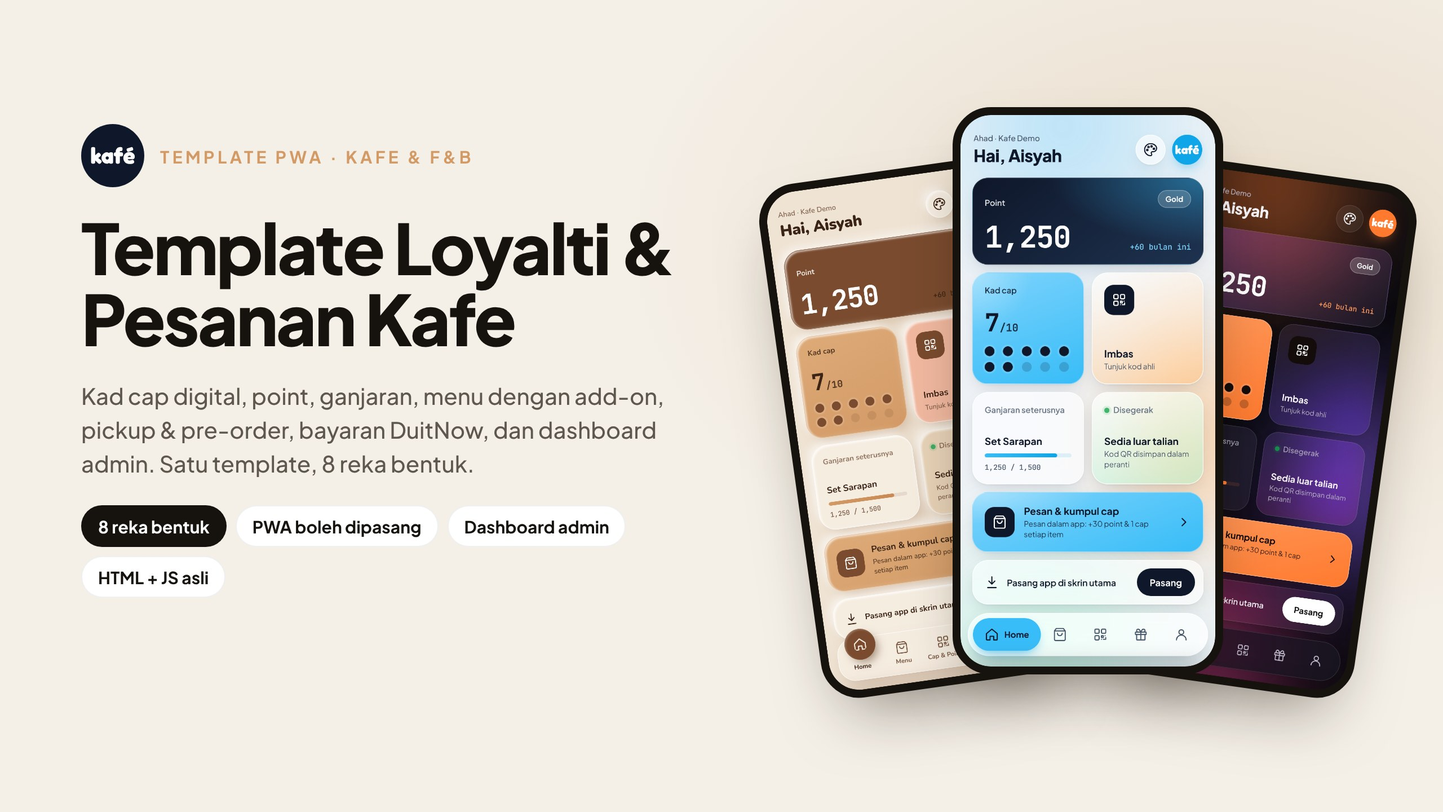
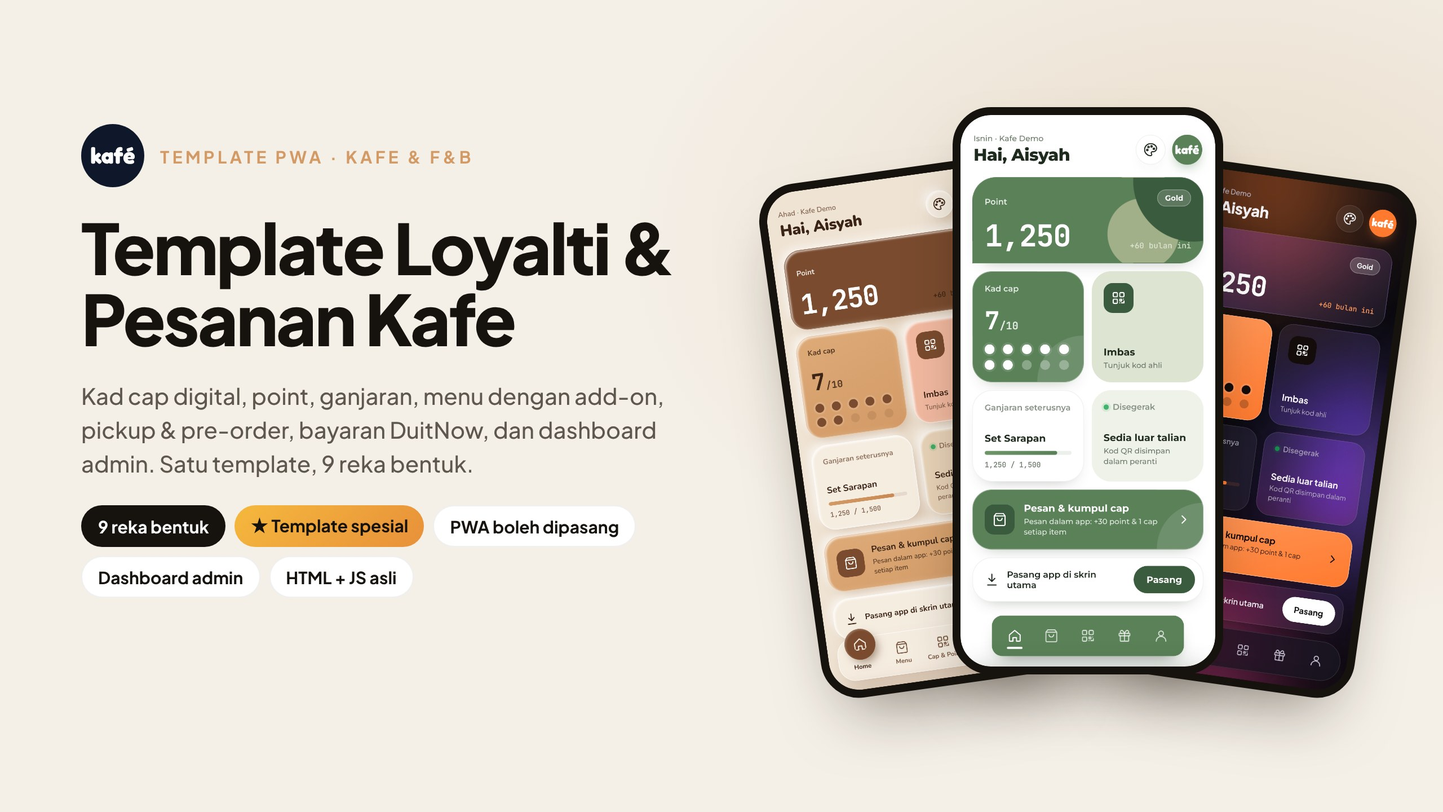
Add special template 'Sage Curve' (9th design)
- Curved sage hero with overlapping circles, vertical category rail on the
  Menu screen, product cards with SVG drink art popping out of a sage box,
  cup stamps and floating nav with underline indicator
- Optional per-product 'art' colours in menu.js; picker and admin show a
  SPESIAL badge; theme listed first
- Update docs, listing copy, cover/gallery images (9 designs + Sage gallery),
  concept poster; buyer ZIP now v1.1.0

Claude-Session: https://claude.ai/code/session_01C5wWw1jGXc8YxhPN5kL5xc

Changed region(s): [[0.6562, 0.125, 0.8438, 0.8438], [0.0625, 0.5625, 0.4375, 0.7188], [0.0625, 0.6875, 0.1562, 0.7188]]

diff --git a/index.html b/index.html
@@ -15,7 +15,7 @@
 <link rel="apple-touch-icon" href="icons/apple-touch-icon.png">
 <link rel="preconnect" href="https://fonts.googleapis.com">
 <link rel="preconnect" href="https://fonts.gstatic.com" crossorigin>
-<link href="https://fonts.googleapis.com/css2?family=Plus+Jakarta+Sans:wght@400;500;600;700;800&family=JetBrains+Mono:wght@500;700&family=Inter:wght@400;500;600;700;800&family=Nunito:wght@500;700;800;900&family=Marcellus&family=Zen+Maru+Gothic:wght@500;700&display=swap" rel="stylesheet">
+<link href="https://fonts.googleapis.com/css2?family=Plus+Jakarta+Sans:wght@400;500;600;700;800&family=JetBrains+Mono:wght@500;700&family=Inter:wght@400;500;600;700;800&family=Nunito:wght@500;700;800;900&family=Marcellus&family=Zen+Maru+Gothic:wght@500;700&family=Montserrat:wght@500;600;700;800&display=swap" rel="stylesheet">
 
 <style>
 /* =========================================================
@@ -216,6 +216,7 @@ svg.i{width:22px;height:22px;stroke:currentColor;fill:none;stroke-width:1.8;stro
 .switch.on{background:var(--brand)}
 .switch.on::after{transform:translateX(20px)}
 .tag-mono{font-family:var(--mono);font-size:11px;font-weight:700;color:var(--ink-2)}
+a.row{color:inherit;text-decoration:none}
 .demo-note{font-size:11px;color:var(--ink-3);text-align:center;margin:14px 0 0}
 
 /* ---------- Bottom nav ---------- */
@@ -546,6 +547,62 @@ svg.i{width:22px;height:22px;stroke:currentColor;fill:none;stroke-width:1.8;stro
 :root[data-theme="matcha"] .prod .row2{display:contents}
 :root[data-theme="matcha"] .prod .pr{grid-column:2;grid-row:3;align-self:start;margin-top:6px}
 :root[data-theme="matcha"] .prod .plus{grid-column:3;grid-row:1/4;border-radius:50%;width:34px;height:34px}
+/* ---- 9. ★ SPESIAL · Sage Curve: panel melengkung, tab menegak, kad minuman tersembul ---- */
+:root[data-theme="sage"]{
+  --brand:#5A8158; --brand-2:#6E9668; --brand-deep:#3B5B3E; --brand-rgb:90,129,88;
+  --ink:#1F2A1E; --ink-2:#6B7769; --ink-3:#A3AD9F; --bg:#FFFFFF; --shadow-rgb:40,60,38; --ink2-rgb:107,119,105;
+  --glass:#FFFFFF; --glass-line:rgba(59,91,62,.08); --blur:0px; --surface:#F4F7F0; --sheet:#FFFFFF; --radius:30px;
+  --shadow:0 12px 26px -18px rgba(40,60,38,.45);
+  --tile-dark:radial-gradient(circle at 96% 4%,#3B5B3E 0 92px,transparent 93px),radial-gradient(circle at 74% 66%,#A2B08A 0 54px,transparent 55px),radial-gradient(circle at 92% 30%,#5A8158 0 38px,transparent 39px),#5A8158;
+  --tile-accent:radial-gradient(circle at 100% 100%,rgba(255,255,255,.12) 0 70px,transparent 71px),#5A8158;
+  --tile-warm:#DDE5D2; --tile-rose:#EEF2E8;
+  --dot-on:#FFFFFF; --dot-off:rgba(255,255,255,.3);
+  --stamp-on:#FFFFFF; --stamp-ink:#5A8158; --stamp-off:rgba(255,255,255,.15); --stamp-line:transparent; --stamp-off-ink:rgba(255,255,255,.55); --stamp-radius:50%;
+  --nav-bg:#5A8158; --nav-active:transparent; --nav-active-ink:#FFFFFF; --cat-on:#5A8158;
+  --delta:#DDE5D2; --dark-bar:linear-gradient(90deg,#A2B08A,#FFFFFF); --soft-icon:#DDE5D2;
+  --font:"Montserrat",system-ui,sans-serif; --font-head:"Montserrat",system-ui,sans-serif; --head-w:800; --head-ls:-.02em;
+  --splash-bg:radial-gradient(circle at 88% 10%,#3B5B3E 0 26vmin,transparent 26.2vmin),radial-gradient(circle at 12% 92%,#A2B08A 0 22vmin,transparent 22.2vmin),#5A8158;
+}
+:root[data-theme="sage"] .sky{display:none}
+:root[data-theme="sage"] body{background:#FFFFFF}
+/* jubin point = panel hero melengkung */
+:root[data-theme="sage"] .tile.dark{border-radius:36px 36px 36px 0}
+:root[data-theme="sage"] .tile.dark:not(.span2){border-radius:30px 30px 30px 0;background:radial-gradient(circle at 100% 0%,#3B5B3E 0 46px,transparent 47px),radial-gradient(circle at 78% 18%,#A2B08A 0 18px,transparent 19px),#5A8158}
+:root[data-theme="sage"] .tile.red{border-radius:30px}
+:root[data-theme="sage"] .tile.warm,:root[data-theme="sage"] .tile.rose{border:0;box-shadow:none}
+:root[data-theme="sage"] .icon-sq{background:#3B5B3E}
+/* nav terapung dengan garis penanda */
+:root[data-theme="sage"] .nav{border-radius:16px;padding:6px 10px;gap:6px;border:0;box-shadow:0 14px 26px -14px rgba(40,60,38,.6)}
+:root[data-theme="sage"] .nav button{color:rgba(255,255,255,.72);padding:0 12px;box-shadow:none!important;position:relative}
+:root[data-theme="sage"] .nav button span{display:none}
+:root[data-theme="sage"] .nav button.active{color:#fff;padding:0 12px}
+:root[data-theme="sage"] .nav button.active::after{content:"";position:absolute;left:50%;bottom:5px;width:24px;height:3px;margin-left:-12px;border-radius:3px;background:#fff}
+/* Menu: tab kategori menegak di tepi kiri */
+:root[data-theme="sage"] #s-menu{padding-left:64px}
+:root[data-theme="sage"] #s-menu .head{margin-left:2px}
+:root[data-theme="sage"] .cats{position:absolute;left:0;top:118px;margin:0;padding:0;flex-direction:column;gap:0;overflow:visible;width:50px}
+:root[data-theme="sage"] .cat{width:50px;min-height:150px;padding:22px 0;border-radius:0 0 0 40px;border:0;background:#5A8158;color:rgba(255,255,255,.75);writing-mode:vertical-rl;transform:rotate(180deg);font-size:12.5px;position:relative;box-shadow:-4px 6px 14px -6px rgba(0,0,0,.3)}
+:root[data-theme="sage"] .cat+.cat{margin-top:-28px}
+:root[data-theme="sage"] .cat:nth-child(1){z-index:6}:root[data-theme="sage"] .cat:nth-child(2){z-index:5}:root[data-theme="sage"] .cat:nth-child(3){z-index:4}:root[data-theme="sage"] .cat:nth-child(4){z-index:3}:root[data-theme="sage"] .cat:nth-child(5){z-index:2}
+:root[data-theme="sage"] .cat.on{color:#fff}
+:root[data-theme="sage"] .cat.on::after{content:"";position:absolute;left:5px;top:50%;width:3px;height:30px;margin-top:-15px;border-radius:3px;background:#fff}
+/* kad produk: kotak sage + panel hijau + minuman tersembul */
+:root[data-theme="sage"] .prod-grid{grid-template-columns:1fr;gap:42px;padding-top:30px}
+:root[data-theme="sage"] .prod{display:grid;grid-template-columns:112px 1fr;grid-template-rows:auto auto 1fr;padding:0;min-height:140px;background:none;border:0;box-shadow:none;overflow:visible;color:#fff}
+:root[data-theme="sage"] .prod::before{content:"";position:absolute;left:98px;right:8px;top:16px;bottom:8px;background:#5A8158;border-radius:0 32px 32px 0;z-index:0}
+:root[data-theme="sage"] .prod .pic,:root[data-theme="sage"] .prod.alt .pic{grid-row:1/4;grid-column:1;position:relative;z-index:1;width:112px;height:140px;aspect-ratio:auto;margin:0;border-radius:28px;background:#A2B08A;overflow:visible;color:#fff}
+:root[data-theme="sage"] .prod .pic svg.art{position:absolute;left:12px;top:-38px;width:88px;height:163px;filter:drop-shadow(0 10px 10px rgba(0,0,0,.18))}
+:root[data-theme="sage"] .prod b{position:relative;z-index:1;grid-column:2;padding:28px 16px 0 22px;font-size:14px;font-weight:800}
+:root[data-theme="sage"] .prod .sub{position:relative;z-index:1;grid-column:2;padding:4px 16px 0 22px;color:rgba(255,255,255,.8);font-size:11px}
+:root[data-theme="sage"] .prod .row2{position:relative;z-index:1;grid-column:2;padding:8px 0 18px 22px;align-self:end}
+:root[data-theme="sage"] .prod .pr{color:#fff;font-size:14px}
+:root[data-theme="sage"] .prod .plus{position:absolute;right:0;bottom:-2px;width:44px;height:40px;border-radius:12px;background:#A2B08A;box-shadow:0 6px 12px -6px rgba(0,0,0,.3)}
+:root[data-theme="sage"] .prod .plus svg{stroke-width:3}
+/* halaman item */
+:root[data-theme="sage"] .ps-hero .pic{background:#5A8158;width:88px;height:96px;border-radius:24px;overflow:visible;position:relative}
+:root[data-theme="sage"] .ps-hero .pic svg.art{position:absolute;left:8px;top:-26px;width:72px;height:133px}
+:root[data-theme="sage"] .ps-hero{margin-top:22px}
+/* kartu pilihan tema: lencana spesial */
 /* ---- pembetulan kecil merentas tema ---- */
 :root[data-theme="grid"] .nav button.active{color:#111}
 :root[data-theme="indigo"] .nav button.active{color:#2B4A7E}
@@ -571,6 +628,9 @@ svg.i{width:22px;height:22px;stroke:currentColor;fill:none;stroke-width:1.8;stro
 .th-card .ok{position:absolute;right:8px;top:8px;width:22px;height:22px;border-radius:50%;background:var(--brand);color:#fff;display:none;place-items:center}
 .th-card.on .ok{display:grid}
 .th-card .ok svg{width:14px;height:14px}
+.th-card .sp{position:absolute;left:8px;top:8px;z-index:2;font-size:9.5px;font-weight:800;letter-spacing:.08em;padding:3px 8px;border-radius:99px;background:linear-gradient(135deg,#F5B83D,#E8903A);color:#3B2410;box-shadow:0 4px 10px -4px rgba(232,144,58,.8)}
+.th-card.special{grid-column:1/-1;display:grid;grid-template-columns:120px 1fr;gap:12px;align-items:center}
+.th-card.special .mock{margin:0;height:96px}
 
 /* =========================================================
    SPLASH — huruf pertama keluar, zoom, kemudian logo penuh
@@ -1192,6 +1252,26 @@ const saveCart = () => { try{ localStorage.setItem(SHARED.cart, JSON.stringify(c
 const activeMenu = () => CONFIG.menu.filter(p=>p.active!==false);
 const actOpts = g => (g.options||[]).filter(o=>o.active!==false);
 
+/* Lukisan minuman (SVG) untuk tema yang ada art:"drink", cth. Sage Curve */
+let artN=0;
+const ART_DEFAULT=[["#E6BE8A","#5C3B22","#8A5428"],["#F4B7C3","#B83A52","#C8364E"],["#BFD39B","#5E7F3E","#4E6B33"],["#D6C2E8","#7C5AA6","#6B4A93"]];
+function drinkArt(c){
+  const [top,bot,drz]=c, id="ar"+(artN++);
+  return `<svg class="art" viewBox="0 0 92 170" aria-hidden="true"><defs><linearGradient id="${id}" x1="0" y1="0" x2="0" y2="1"><stop offset="0" stop-color="${top}"/><stop offset=".55" stop-color="${top}"/><stop offset="1" stop-color="${bot}"/></linearGradient><clipPath id="${id}c"><path d="M10 62h72l-8 100a6 6 0 0 1-6 6H24a6 6 0 0 1-6-6z"/></clipPath></defs>
+  <rect x="44" y="0" width="5" height="40" rx="2" fill="#3B5B3E" transform="rotate(8 46 20)"/>
+  <path d="M10 62h72l-8 100a6 6 0 0 1-6 6H24a6 6 0 0 1-6-6z" fill="url(#${id})"/>
+  <g clip-path="url(#${id}c)" opacity=".35"><path d="M8 95c18 8 30-8 46 2s24-4 32 0" stroke="${drz}" stroke-width="7" fill="none"/><path d="M8 130c16 6 30-6 44 2s24-2 34 0" stroke="${drz}" stroke-width="6" fill="none"/></g>
+  <rect x="6" y="56" width="80" height="9" rx="4" fill="rgba(255,255,255,.9)"/>
+  <path d="M12 58c0-14 10-22 18-24 2-10 12-15 18-15s16 5 18 15c8 2 18 10 18 24z" fill="#FFF8EF"/>
+  <path d="M20 46c8 4 14-4 22 0s14-4 22 0 10-2 14 2" stroke="${drz}" stroke-width="3.2" fill="none" stroke-linecap="round"/>
+  <path d="M28 34c6 3 10-3 16 0s10-3 16 0" stroke="${drz}" stroke-width="3" fill="none" stroke-linecap="round"/>
+  <circle cx="46" cy="112" r="16" fill="#3B5B3E"/><text x="46" y="118" text-anchor="middle" font-family="Fredoka,Plus Jakarta Sans,sans-serif" font-weight="700" font-size="17" fill="#fff">${esc((CONFIG.brand||"K")[0].toLowerCase())}</text></svg>`;
+}
+function picHTML(p,i=0){
+  const isDrink = p.art || (p.cat||"")==="Minuman";
+  if(THEME.art==="drink" && isDrink) return drinkArt(Array.isArray(p.art)?p.art:ART_DEFAULT[i%ART_DEFAULT.length]);
+  return icon(p.icon||"cup");
+}
 function renderMenu(){
   const items=activeMenu(), cats=["Semua",...new Set(items.map(p=>p.cat||"Lain-lain"))];
   if(!cats.includes(menuCat)) menuCat="Semua";
@@ -1199,7 +1279,7 @@ function renderMenu(){
   const list=items.filter(p=>menuCat==="Semua"||(p.cat||"Lain-lain")===menuCat);
   $("#m-grid").innerHTML=list.map((p,i)=>`
     <button class="tile prod ${p.cat==="Snek"?"alt":""}" data-prod="${p.id}">
-      <div class="pic">${icon(p.icon||"cup")}</div>
+      <div class="pic">${picHTML(p,i)}</div>
       <b>${esc(p.name)}</b><span class="sub">${esc(p.desc||"")}</span>
       <div class="row2"><span class="pr">${rm2(p.price)}</span><span class="plus">${icon("plus")}</span></div>
     </button>`).join("") || `<div class="tile span2 empty">Tiada item dalam kategori ini</div>`;
@@ -1238,7 +1318,7 @@ function renderProduct(){
   const total=pickPrice(p), addon=total-p.price;
   box.innerHTML=`
     ${sheetTop(p.name)}
-    <div class="ps-hero"><div class="pic">${icon(p.icon||"cup")}</div><div><h2>${esc(p.name)}</h2><p>${esc(p.desc||"")}</p><div class="mono" style="font-weight:700;margin-top:4px">${rm2(p.price)}</div></div></div>
+    <div class="ps-hero"><div class="pic">${picHTML(p)}</div><div><h2>${esc(p.name)}</h2><p>${esc(p.desc||"")}</p><div class="mono" style="font-weight:700;margin-top:4px">${rm2(p.price)}</div></div></div>
     ${groups}
     <div class="ps-foot">
       <div class="bd"><span>Harga item <b>${rm2(p.price)}</b></span><span>Add-on <b>${addon>0?"+"+rm2(addon):"RM 0.00"}</b></span></div>
@@ -1490,10 +1570,10 @@ function openThemes(){
     <h2>Pilih reka bentuk</h2>
     <p>Tekan untuk cuba. Pilihan ini hanya untuk peranti ini, dan admin boleh tetapkan reka bentuk rasmi kedai di Tetapan.</p>
     <div class="th-grid">${THEMES.map(t=>`
-      <button class="th-card ${t.id===cur?"on":""}" data-theme-pick="${t.id}">
-        <span class="ok">${icon("check")}</span>
+      <button class="th-card ${t.id===cur?"on":""} ${t.special?"special":""}" data-theme-pick="${t.id}">
+        <span class="ok">${icon("check")}</span>${t.special?'<span class="sp">★ SPESIAL</span>':""}
         <div class="mock" style="background:${t.sw[0]}"><i style="background:${t.sw[1]}"></i><i style="background:${t.sw[2]}"></i><i style="background:${t.sw[3]};box-shadow:inset 0 0 0 1px rgba(0,0,0,.06)"></i></div>
-        <b>${esc(t.name)}</b><span>${esc(t.desc)}</span>
+        <div><b>${esc(t.name)}</b><span>${esc(t.desc)}${t.special?" · template spesial":""}</span></div>
       </button>`).join("")}</div>
     <button class="btn ghost block" data-action="themeReset">Guna reka bentuk kedai (${esc((THEMES.find(t=>t.id===(SHOP.theme||"frost"))||THEMES[0]).name)})</button>`);
 }

diff --git a/menu.js b/menu.js
@@ -8,23 +8,24 @@
      type:"multi"  → pilih banyak dengan kuantiti.
                      Setiap pilihan ada `max` = had kuantiti untuk SATU item.
                      Kumpulan ada `max` = had jumlah semua pilihan (0 = tiada had).
+   art:[atas, bawah, hiasan] (pilihan) = warna lukisan minuman untuk tema "Sage Curve".
      Nak lebih dari had? Pelanggan tambah item yang sama ke troli sekali lagi.
    ========================================================= */
 window.SHOP_MENU = [
-  { id:"sig", name:"Kopi Signature", desc:"Kopi susu gula hangus, krim lembut", price:9.90, cat:"Minuman", icon:"cup", active:true, groups:[
+  { id:"sig", name:"Kopi Signature", desc:"Kopi susu gula hangus, krim lembut", price:9.90, cat:"Minuman", icon:"cup", art:["#E6BE8A","#5C3B22","#8A5428"], active:true, groups:[
     { id:"size", name:"Saiz", type:"single", required:true, options:[{id:"r",name:"Regular",price:0,active:true},{id:"l",name:"Large",price:2,active:true}] },
     { id:"ice",  name:"Ais",  type:"single", required:true, options:[{id:"n",name:"Ais normal",price:0,active:true},{id:"k",name:"Kurang ais",price:0,active:true},{id:"t",name:"Tiada ais",price:0,active:true}] },
     { id:"top",  name:"Topping", type:"multi", max:3, options:[{id:"boba",name:"Boba",price:1.5,max:2,active:true},{id:"cheese",name:"Cheese foam",price:2,max:1,active:true},{id:"jelly",name:"Jelly kelapa",price:1,max:2,active:true}] },
   ]},
-  { id:"latte", name:"Latte Ais", desc:"Espresso dengan susu segar", price:8.90, cat:"Minuman", icon:"cup", active:true, groups:[
+  { id:"latte", name:"Latte Ais", desc:"Espresso dengan susu segar", price:8.90, cat:"Minuman", icon:"cup", art:["#EBD3B4","#A8754A","#7A4B2E"], active:true, groups:[
     { id:"size", name:"Saiz", type:"single", required:true, options:[{id:"r",name:"Regular",price:0,active:true},{id:"l",name:"Large",price:2,active:true}] },
     { id:"sugar",name:"Gula", type:"single", required:true, options:[{id:"n",name:"Gula normal",price:0,active:true},{id:"k",name:"Kurang manis",price:0,active:true},{id:"t",name:"Tanpa gula",price:0,active:true}] },
     { id:"xtra", name:"Tambahan", type:"multi", max:0, options:[{id:"shot",name:"Extra shot",price:2,max:2,active:true},{id:"van",name:"Sirap vanila",price:1,max:1,active:true},{id:"oat",name:"Tukar susu oat",price:2.5,max:1,active:true}] },
   ]},
-  { id:"teh", name:"Teh Tarik Ais", desc:"Teh tarik pekat, buih tebal", price:5.50, cat:"Minuman", icon:"cup", active:true, groups:[
+  { id:"teh", name:"Teh Tarik Ais", desc:"Teh tarik pekat, buih tebal", price:5.50, cat:"Minuman", icon:"cup", art:["#E2B987","#9A5B2A","#7A4220"], active:true, groups:[
     { id:"sugar",name:"Gula", type:"single", required:true, options:[{id:"n",name:"Gula normal",price:0,active:true},{id:"k",name:"Kurang manis",price:0,active:true}] },
   ]},
-  { id:"matcha", name:"Matcha Latte", desc:"Matcha Uji dengan susu segar", price:10.90, cat:"Minuman", icon:"leaf", active:true, groups:[
+  { id:"matcha", name:"Matcha Latte", desc:"Matcha Uji dengan susu segar", price:10.90, cat:"Minuman", icon:"leaf", art:["#BFD39B","#5E7F3E","#4E6B33"], active:true, groups:[
     { id:"size", name:"Saiz", type:"single", required:true, options:[{id:"r",name:"Regular",price:0,active:true},{id:"l",name:"Large",price:2,active:true}] },
     { id:"top",  name:"Topping", type:"multi", max:2, options:[{id:"boba",name:"Boba",price:1.5,max:2,active:true},{id:"cream",name:"Krim putar",price:1.5,max:1,active:true}] },
   ]},
@@ -67,6 +68,7 @@ window.SHOP_SETTINGS = {
    CSS setiap tema ada dalam index.html: :root[data-theme="..."]
    ========================================================= */
 window.SHOP_THEMES = [
+  { id:"sage",   name:"Sage Curve",        desc:"Panel melengkung · hijau sage",   sw:["#FFFFFF","#5A8158","#3B5B3E","#A2B08A"], meta:"#FFFFFF", stamp:"cup", art:"drink", special:true },
   { id:"frost",  name:"Bento Glass Frost", desc:"Kaca cerah · biru langit",        sw:["#EEF2F6","#0F172A","#38BDF8","#FDBA74"], meta:"#EEF2F6", stamp:"check" },
   { id:"grid",   name:"Bento Grid",        desc:"Kelabu hangat · hitam · oren",    sw:["#F1F1EE","#111111","#FF6A1A","#FFFFFF"], meta:"#F1F1EE", stamp:"check" },
   { id:"noir",   name:"Bento Glass Noir",  desc:"Kaca gelap · oren · ungu",        sw:["#0B0B10","#FF7A2F","#8B5CF6","#EC4899"], meta:"#0B0B10", stamp:"check" },

diff --git a/admin.html b/admin.html
@@ -328,6 +328,7 @@ svg.i{width:20px;height:20px;stroke:currentColor;fill:none;stroke-width:1.8;stro
 .th-card span{font-size:11px;color:var(--ink-2)}
 .th-card .ok{position:absolute;right:8px;top:8px;width:22px;height:22px;border-radius:50%;background:var(--brand);color:#fff;display:none;place-items:center}
 .th-card.on .ok{display:grid}
+.th-card .sp{position:absolute;left:8px;top:8px;z-index:2;font-size:9.5px;font-weight:800;letter-spacing:.08em;padding:3px 8px;border-radius:99px;background:linear-gradient(135deg,#F5B83D,#E8903A);color:#3B2410}
 
 /* ---------- Responsif ---------- */
 @media (max-width:1100px){ .g4{grid-template-columns:repeat(2,1fr)} }
@@ -1097,7 +1098,7 @@ const THEMES = window.SHOP_THEMES || [];
 function renderThemeGrid(){
   const cur=SETDRAFT.theme||"frost";
   $("#thGrid").innerHTML=THEMES.map(t=>`<button type="button" class="th-card ${t.id===cur?"on":""}" data-th="${t.id}">
-    <span class="ok">${icon("check","width:14px;height:14px")}</span>
+    <span class="ok">${icon("check","width:14px;height:14px")}</span>${t.special?'<span class="sp">★ SPESIAL</span>':""}
     <div class="mock" style="background:${t.sw[0]}"><i style="background:${t.sw[1]}"></i><i style="background:${t.sw[2]}"></i><i style="background:${t.sw[3]};box-shadow:inset 0 0 0 1px rgba(0,0,0,.06)"></i></div>
     <b>${esc(t.name)}</b><span>${esc(t.desc)}</span></button>`).join("");
   $("#thLink").textContent=`index.html?tema=${cur}`;
@@ -1105,7 +1106,7 @@ function renderThemeGrid(){
 document.addEventListener("click",e=>{ const b=e.target.closest("[data-th]"); if(!b||!SETDRAFT) return; SETDRAFT.theme=b.dataset.th; renderThemeGrid(); applyAdminTheme(SETDRAFT.theme); });
 /* Warna aksen admin ikut tema app (latar admin kekal cerah supaya mudah dibaca) */
 const ADMIN_ACCENT={frost:["#0EA5E9","#38BDF8","#0F172A"],grid:["#FF6A1A","#FF8A3D","#111111"],noir:["#FF7A2F","#FF9A5C","#1B1924"],aurora:["#6D5BFF","#22D3EE","#0E1226"],
-  clay:["#C98A55","#D39A66","#7A4B2E"],indigo:["#2B4A7E","#3D63A3","#1E355E"],matcha:["#4B5A3A","#6B7B57","#343F28"],ruby:["#BF0311","#E3192B","#5A0710"]};
+  clay:["#C98A55","#D39A66","#7A4B2E"],sage:["#5A8158","#A2B08A","#3B5B3E"],indigo:["#2B4A7E","#3D63A3","#1E355E"],matcha:["#4B5A3A","#6B7B57","#343F28"],ruby:["#BF0311","#E3192B","#5A0710"]};
 function applyAdminTheme(id){
   const c=ADMIN_ACCENT[id]||ADMIN_ACCENT.ruby, r=document.documentElement.style;
   const rgb=h=>[1,3,5].map(i=>parseInt(h.slice(i,i+2),16)).join(",");

diff --git a/sw.js b/sw.js
@@ -1,6 +1,6 @@
 /* Service worker — cache app shell supaya boleh dibuka luar talian.
    Naikkan VERSION setiap kali anda kemas kini index.html. */
-const VERSION = "kafe-v1.4.1";
+const VERSION = "kafe-v1.5.0";
 const SHELL = ["./", "./index.html", "./admin.html", "./menu.js", "./manifest.webmanifest",
   "./icons/icon-192.png", "./icons/icon-512.png", "./icons/apple-touch-icon.png"];
 

diff --git a/jualan/gumroad-listing.md b/jualan/gumroad-listing.md
@@ -5,10 +5,10 @@
 ---
 
 ## Nama produk
-**Template Loyalti & Pesanan Kafe — PWA, 8 Reka Bentuk (Demo, Lesen 1 Kedai)**
+**Template Loyalti & Pesanan Kafe — PWA, 9 Reka Bentuk termasuk Template Spesial (Demo, Lesen 1 Kedai)**
 
 ## Ringkasan (Summary)
-Template app kad loyalti dan pesanan untuk kafe & F&B. Ada kad cap digital, point, ganjaran, menu dengan add-on, pickup & pre-order, bayaran DuitNow dan dashboard admin. Satu template dengan 8 reka bentuk yang boleh ditukar dengan satu tekan.
+Template app kad loyalti dan pesanan untuk kafe & F&B. Ada kad cap digital, point, ganjaran, menu dengan add-on, pickup & pre-order, bayaran DuitNow dan dashboard admin. Satu template dengan 9 reka bentuk, termasuk template spesial Sage Curve, yang boleh ditukar dengan satu tekan.
 
 ## Penerangan
 
@@ -39,7 +39,9 @@ Nak tunjuk kepada client kafe macam mana rupa app loyalti mereka sendiri, tanpa 
   - pre-order
   - QR DuitNow
 
-### ✦ 8 reka bentuk dalam satu template
+### ✦ 9 reka bentuk dalam satu template
+**★ Sage Curve (template spesial)**: panel hijau melengkung, tab kategori menegak, dan lukisan minuman pada kad menu.
+
 Bento Glass Frost · Bento Grid · Bento Glass Noir · Aurora Night · Caramel Latte · Indigo Ramen · Matcha Zen · Ruby Glass
 
 Setiap reka bentuk ada warna, fon, gaya cap, gaya kad menu dan navigasi sendiri. Client boleh cuba semua reka bentuk terus dalam app, atau anda hantar pautan pratonton.
@@ -102,12 +104,13 @@ Dalam versi demo, dalam pelayar peranti. Tiada data dihantar ke mana-mana pelaya
 | `03-galeri-reka-bentuk.jpg` | Gambar galeri / cover tambahan |
 | `04-galeri-pesanan.jpg` | Gambar galeri / cover tambahan |
 | `05-galeri-admin.jpg` | Gambar galeri / cover tambahan |
+| `06-galeri-sage-curve.jpg` | Gambar galeri: template spesial |
 
 ## Langkah di Gumroad
 1. Gumroad → **Products → New product** → pilih **Digital product**. Masukkan nama dan harga.
-2. **Cover**: muat naik `01-cover.jpg`, kemudian tambah 03–05 sebagai gambar tambahan. **Thumbnail**: `02-thumbnail.jpg`.
+2. **Cover**: muat naik `01-cover.jpg`, kemudian tambah 03–06 sebagai gambar tambahan. **Thumbnail**: `02-thumbnail.jpg`.
 3. **Description**: tampal bahagian *Penerangan* dan *FAQ* di atas.
-4. **Content**: muat naik fail `template-loyalti-kafe-v1.0.0.zip`.
+4. **Content**: muat naik fail `template-loyalti-kafe-v1.1.0.zip`.
 5. Isi bahagian *Summary* dan tag, kemudian **Publish**.
 
 ## Nota tentang demo langsung

diff --git a/README.md b/README.md
@@ -1,11 +1,11 @@
 # Kafe Demo — Template Loyalty PWA
 
-Template kad loyalti digital + pesanan (cap, point, menu, pickup, ganjaran) untuk kafe. Logo contoh **"kafé"** (Kafe Demo) dan **8 reka bentuk** yang boleh ditukar.
+Template kad loyalti digital + pesanan (cap, point, menu, pickup, ganjaran) untuk kafe. Logo contoh **"kafé"** (Kafe Demo) dan **9 reka bentuk** yang boleh ditukar.
 Ditulis sepenuhnya dalam **HTML, CSS dan JavaScript vanilla**, dalam satu fail `index.html`. Tiada framework dan tiada langkah build.
 
 ## Ciri-ciri
 - **Splash screen beranimasi**: huruf pertama logo muncul, zoom, kemudian logo penuh terbuka.
-- **8 reka bentuk (tema)**: Bento Glass Frost, Bento Grid, Bento Glass Noir, Aurora Night, Caramel Latte (clay), Indigo Ramen, Matcha Zen dan Ruby Glass. Setiap tema ada warna, fon, gaya cap, gaya kad menu dan navigasi sendiri.
+- **9 reka bentuk (tema)**: ★ **Sage Curve (template spesial)**, Bento Glass Frost, Bento Grid, Bento Glass Noir, Aurora Night, Caramel Latte (clay), Indigo Ramen, Matcha Zen dan Ruby Glass. Setiap tema ada warna, fon, gaya cap, gaya kad menu dan navigasi sendiri.
 - **4 skrin**: Home · Cap & Point · Ganjaran · Profil, dengan bottom nav berbentuk pil.
 - **Kod QR ahli yang boleh diimbas betul-betul**, dijana dalam JS tanpa library (format: `<NAMA KEDAI>:<memberId>`).
 - **Kad cap 10 petak**: bila penuh, petak hadiah boleh ditekan untuk tebus minuman percuma.
@@ -17,7 +17,7 @@ Ditulis sepenuhnya dalam **HTML, CSS dan JavaScript vanilla**, dalam satu fail `
 ## Reka bentuk (tema)
 - Pelanggan/client boleh cuba semua reka bentuk melalui butang **palet** di Home, atau **Profil → Reka bentuk app**. Pilihan itu disimpan dalam peranti sahaja.
 - Admin pilih reka bentuk rasmi kedai di **Tetapan → Reka bentuk app pelanggan**, dan boleh matikan butang palet bila app sudah dilancarkan.
-- Pautan pratonton terus: `index.html?tema=aurora` (frost, grid, noir, aurora, clay, indigo, matcha, ruby). Sesuai untuk hantar kepada client.
+- Pautan pratonton terus: `index.html?tema=aurora` (sage, frost, grid, noir, aurora, clay, indigo, matcha, ruby). Sesuai untuk hantar kepada client.
 - Senarai tema ada dalam `menu.js` (`SHOP_THEMES`). CSS setiap tema ada dalam `index.html` di bahagian **TEMA** (`:root[data-theme="..."]`).
 
 ## Menu, add-on & troli

diff --git a/PANDUAN.md b/PANDUAN.md
@@ -70,9 +70,9 @@ Buka `http://localhost:8080` (app pelanggan) dan `http://localhost:8080/admin.ht
 
 ## 5. Pilih reka bentuk
 
-Template ada **8 reka bentuk**: Bento Glass Frost, Bento Grid, Bento Glass Noir, Aurora Night, Caramel Latte, Indigo Ramen, Matcha Zen dan Ruby Glass.
+Template ada **9 reka bentuk**: ★ **Sage Curve** (template spesial, dengan tab kategori menegak dan lukisan minuman), Bento Glass Frost, Bento Grid, Bento Glass Noir, Aurora Night, Caramel Latte, Indigo Ramen, Matcha Zen dan Ruby Glass.
 
-- **Untuk demo kepada client:** buka app dan tekan butang **palet** di Home, atau **Profil → Reka bentuk app**. Boleh juga hantar pautan terus, contohnya `https://app-anda.vercel.app/?tema=clay`. Nilai `tema` yang sah: `frost`, `grid`, `noir`, `aurora`, `clay`, `indigo`, `matcha`, `ruby`.
+- **Untuk demo kepada client:** buka app dan tekan butang **palet** di Home, atau **Profil → Reka bentuk app**. Boleh juga hantar pautan terus, contohnya `https://app-anda.vercel.app/?tema=clay`. Nilai `tema` yang sah: `sage`, `frost`, `grid`, `noir`, `aurora`, `clay`, `indigo`, `matcha`, `ruby`.
 - **Tetapkan reka bentuk rasmi kedai:** **Admin → Tetapan → Reka bentuk app pelanggan**, atau `menu.js` → `SHOP_SETTINGS.theme`.
 - **Sembunyikan butang palet** selepas client membuat pilihan: matikan suis di Admin → Tetapan, atau set `themePicker: false` dalam `menu.js`.
 - **Ubah warna tema:** dalam `index.html`, cari bahagian `TEMA` dan ubah token seperti `--brand`, `--brand-2`, `--brand-deep` dan `--brand-rgb` (nilai r,g,b bagi `--brand`) pada blok `:root[data-theme="..."]`.
@@ -85,6 +85,7 @@ Semua dalam **`menu.js`**:
   - `type:"single"`: pilih satu (radio). `required:true` = wajib.
   - `type:"multi"`: pilih banyak dengan kuantiti. Setiap pilihan ada `max` (had per item, contohnya Fucuk maks 1). Kumpulan ada `max` (had jumlah, 0 = tiada had).
   - Ikon yang tersedia: `cup`, `leaf`, `bowl`, `bread`, `cake`, `bean`, `sparkle`.
+  - `art:["#atas","#bawah","#hiasan"]` (pilihan): warna lukisan minuman dalam tema Sage Curve. Tanpa `art`, warna dipilih automatik untuk kategori "Minuman".
 - `SHOP_SETTINGS`:
   - `stampTarget`: bilangan cap untuk 1 minuman percuma.
   - `pointsWalkin`, `pointsOnline`: point setiap item (kaunter / app).

diff --git a/CHANGELOG.md b/CHANGELOG.md
@@ -1,5 +1,10 @@
 # Nota Versi
 
+## v1.1.0 — Template spesial: Sage Curve
+- Reka bentuk ke-9 bertanda **★ SPESIAL**: panel hijau sage melengkung dengan bulatan bertindih, tab kategori menegak di tepi kiri (skrin Menu), kad produk dengan lukisan minuman yang tersembul keluar, cap berbentuk cawan, dan nav terapung dengan garis penanda.
+- Lukisan minuman SVG (warna boleh ditetapkan dengan `art` dalam `menu.js`).
+- Pemilih reka bentuk dan tetapan admin memaparkan lencana SPESIAL.
+
 ## v1.0.0 — Versi demo pertama
 - App pelanggan PWA: splash beranimasi, Home, Menu, Cap & Point, Ganjaran, Profil.
 - Kad cap digital, point, tahap ahli (Silver/Gold/Platinum), ganjaran dengan kod baucar bertempoh.
